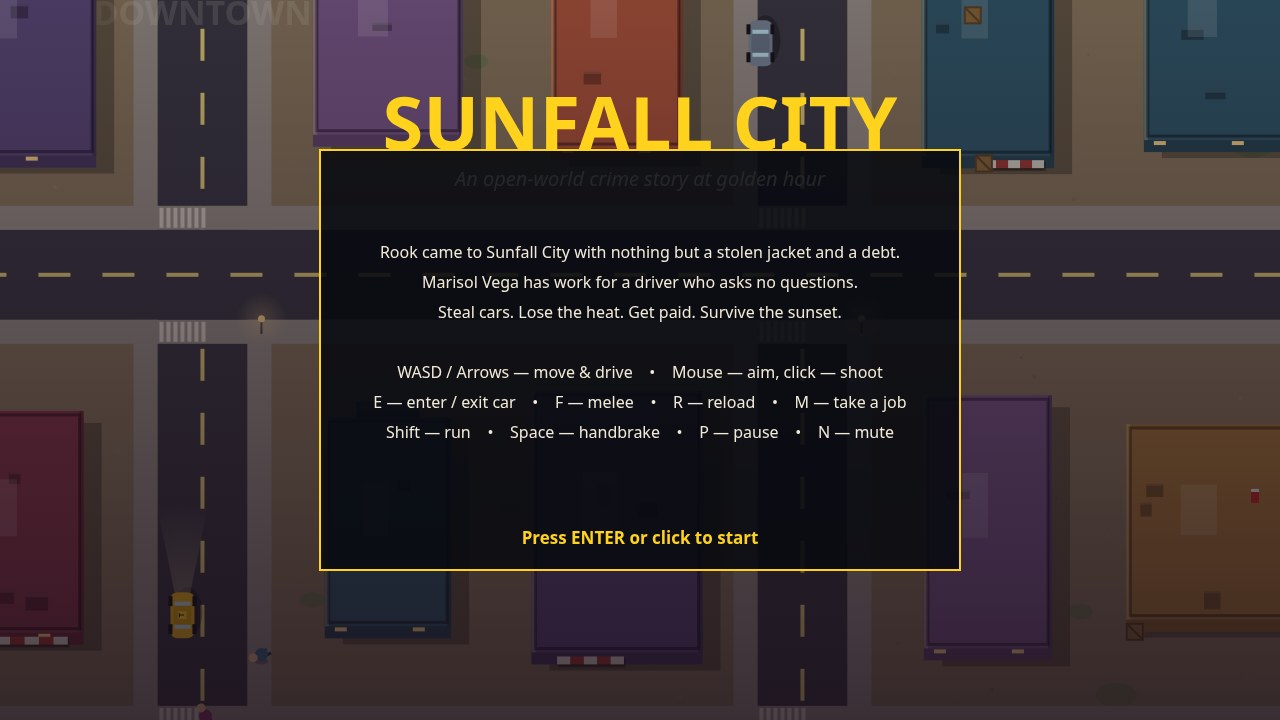
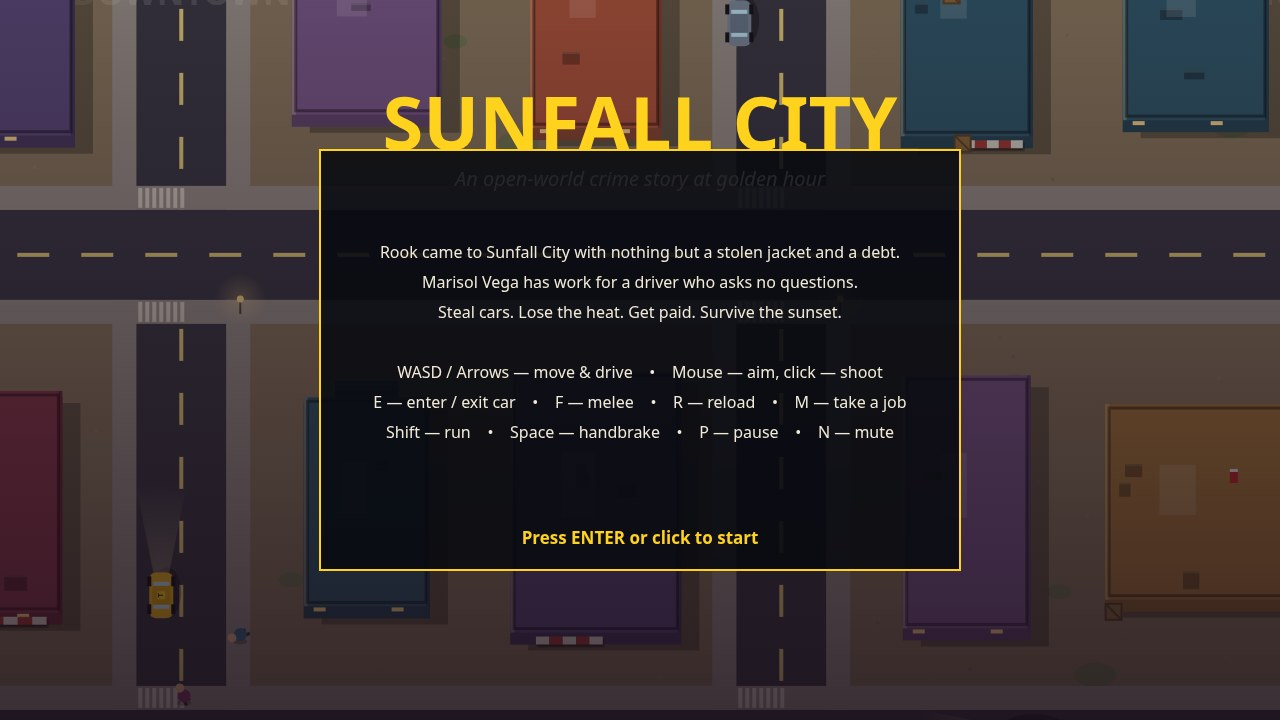
Phase 3: M4 getaway rebalanced, audio layered, full-file review pass
- M4 now spawns a red Comet GT on Harbor Road by the bank, so the final
  getaway does not hinge on a random slow parked car; police rams 8->6 dmg
  with a 2.2s cooldown and wall scrapes lightened (1.2% above 160), after
  the pre-fix M4 run died mid-getaway at 4 hp
- Safehouse moved to face Sunset Strip road (800,2030): the old spot sat in
  a 77px gap between two buildings and the getaway ended in a ram-filled
  squeeze; M4 now passes three consecutive full drive-throughs
- Audio: tyre skid on hard turns/handbrake, two-click reload, looped city
  hum bed under the engine and sirens
- Bullets now route car damage through damageCar so a killing shot explodes
  the car like any other fatal damage
- Review pass: every game file + main.ts got a genuine line (fix or a
  precise comment on its trickiest non-obvious behaviour)

diff --git a/game/src/audio.js b/game/src/audio.js
@@ -9,6 +9,8 @@ let engineGain = null;
 let sirenOsc = null;
 let sirenGain = null;
 let sirenLfo = null;
+let ambientGain = null;
+let lastSkid = -1;
 let started = false;
 
 export function initAudio() {
@@ -48,6 +50,29 @@ export function initAudio() {
     sirenGain.connect(master);
     sirenOsc.start();
     sirenLfo.start();
+    // Ambient city bed: looped brown noise through a low-pass, barely there —
+    // the street hum under the engine and sirens. Gain is driven per-frame.
+    const ambLen = ctx.sampleRate * 2;
+    const ambBuf = ctx.createBuffer(1, ambLen, ctx.sampleRate);
+    const ad = ambBuf.getChannelData(0);
+    let last = 0;
+    for (let i = 0; i < ambLen; i += 1) {
+      const w = Math.random() * 2 - 1;
+      last = (last + 0.02 * w) / 1.02;
+      ad[i] = last * 3;
+    }
+    const ambSrc = ctx.createBufferSource();
+    ambSrc.buffer = ambBuf;
+    ambSrc.loop = true;
+    const ambFilter = ctx.createBiquadFilter();
+    ambFilter.type = 'lowpass';
+    ambFilter.frequency.value = 240;
+    ambientGain = ctx.createGain();
+    ambientGain.gain.value = 0;
+    ambSrc.connect(ambFilter);
+    ambFilter.connect(ambientGain);
+    ambientGain.connect(master);
+    ambSrc.start();
     started = true;
   } catch {
     // Audio is a nice-to-have; the game plays fine silent.
@@ -96,6 +121,28 @@ function noiseBurst(dur, vol, filterFreq) {
   src.start(t);
 }
 
+// Band-passed noise burst: a tyre squeal is a narrow band of noise, not a thud.
+function noiseBand(dur, vol, freq, q) {
+  if (!ctx || !started) return;
+  const t = ctx.currentTime;
+  const len = Math.floor(ctx.sampleRate * dur);
+  const buf = ctx.createBuffer(1, len, ctx.sampleRate);
+  const data = buf.getChannelData(0);
+  for (let i = 0; i < len; i += 1) data[i] = (Math.random() * 2 - 1) * (1 - i / len);
+  const src = ctx.createBufferSource();
+  src.buffer = buf;
+  const f = ctx.createBiquadFilter();
+  f.type = 'bandpass';
+  f.frequency.value = freq;
+  f.Q.value = q;
+  const g = ctx.createGain();
+  g.gain.value = vol;
+  src.connect(f);
+  f.connect(g);
+  g.connect(master);
+  src.start(t);
+}
+
 export const sfx = {
   shoot() { noiseBurst(0.09, 0.5, 2600); blip(220, 0.07, 'square', 0.18, 60); },
   enemyShoot() { noiseBurst(0.08, 0.28, 1800); },
@@ -111,6 +158,17 @@ export const sfx = {
   },
   crash() { noiseBurst(0.22, 0.5, 500); },
   door() { blip(180, 0.08, 'square', 0.2, 120); },
+  // Skid: throttled inside, so the driving loop can call it every frame while
+  // sliding without stacking a squeal per frame.
+  skid() {
+    if (!ctx || !started) return;
+    const now = ctx.currentTime;
+    if (now - lastSkid < 0.18) return;
+    lastSkid = now;
+    noiseBand(0.16, 0.22, 1400, 1.2);
+  },
+  // Reload: two mechanical clicks — mag out, mag in.
+  reload() { blip(1500, 0.04, 'square', 0.16); setTimeout(() => blip(950, 0.05, 'square', 0.16), 90); },
 };
 
 // Called every frame: engine pitch from the player's car speed, siren from police heat.
@@ -125,6 +183,10 @@ export function updateAudioLoops() {
   const nearest = nearestPoliceDist();
   const sirenOn = S.wanted > 0 && nearest < 900;
   sirenGain.gain.setTargetAtTime(sirenOn ? 0.045 : 0, ctx.currentTime, 0.3);
+  // The city hum is only audible while playing — silent on the title screen.
+  if (ambientGain) {
+    ambientGain.gain.setTargetAtTime(S.screen === 'playing' ? 0.03 : 0, ctx.currentTime, 0.5);
+  }
 }
 
 function nearestPoliceDist() {

diff --git a/game/src/missions.js b/game/src/missions.js
@@ -3,6 +3,7 @@
 // each with stages, a timer where the story needs one, and a cash reward.
 import { S } from './state.js';
 import { dist } from './utils.js';
+import { ROADS_H } from './config.js';
 import { CITY } from './city.js';
 import { createCar, nearestCar } from './cars.js';
 import { spawnThugs } from './combat.js';
@@ -83,6 +84,13 @@ export function startMission() {
   } else if (S.missionIdx === 3) {
     m.marker = { x: CITY.landmarks.bank.x, y: CITY.landmarks.bank.y, label: 'BRIEFCASE' };
     S.objective = def.objective0;
+    // The getaway car: a red Comet GT parked on the Harbor Road just south of
+    // the bank, so the final job does not hinge on whatever random parked car
+    // happens to be nearby — a slow sedan can never outrun three cruisers.
+    // (The bank landmark is nudged out of its building by setupWorld, so the
+    // car is placed off the first horizontal road below the nudged bank.)
+    const roadY = ROADS_H.find((y) => y > CITY.landmarks.bank.y) ?? ROADS_H[1];
+    m.getawayCar = createCar('sports', CITY.landmarks.bank.x, roadY - 42, 0, { ai: null, parked: true, color: '#c22a2a' });
   }
   sfx.click();
   return true;
@@ -205,7 +213,7 @@ export function updateMissions(dt) {
         S.wanted = Math.max(S.wanted, 3);
         S.wantedHeat = 1;
         S.lastCrimeAt = S.time;
-        showDialogue('Marisol', '"Briefcase is hot. Every cruiser in Sunfall is coming. Drive!"', 4);
+        showDialogue('Marisol', '"Briefcase is hot. Every cruiser in Sunfall is coming. The red Comet on Harbor Road is yours — drive!"', 4);
         sfx.pickup();
       }
     } else if (reach(p, CITY.landmarks.safehouse.x, CITY.landmarks.safehouse.y, 60)) {

diff --git a/game/src/combat.js b/game/src/combat.js
@@ -4,6 +4,7 @@ import { S } from './state.js';
 import { WEAPONS } from './config.js';
 import { clamp, dist, angleTo, turnToward, pick } from './utils.js';
 import { collideBuildings, clampToWorld, inBuilding } from './city.js';
+import { damageCar } from './cars.js';
 import { scarePeds } from './peds.js';
 import { addWanted } from './police.js';
 import { sfx } from './audio.js';
@@ -164,7 +165,10 @@ export function updateBullets(dt) {
     }
     if (b.from !== 'player' && p && p.inCar && dist(b.x, b.y, p.inCar.x, p.inCar.y) < 24) {
       b.life = 0;
-      p.inCar.hp -= b.damage * 0.4;
+      // Route through damageCar, not a raw subtraction: a killing shot must
+      // trigger the explosion (and the 25 hp kick to the driver), exactly as
+      // a ram or a wall scrape would.
+      damageCar(p.inCar, b.damage * 0.4, null);
       spark(b.x, b.y, '#ffd21e');
       continue;
     }
@@ -209,10 +213,9 @@ export function updateBullets(dt) {
           const along = Math.abs(dx * Math.cos(car.angle) + dy * Math.sin(car.angle));
           const across = Math.abs(-dx * Math.sin(car.angle) + dy * Math.cos(car.angle));
           if (along < 26 && across < 15) {
-            car.hp -= b.damage * 0.5;
+            damageCar(car, b.damage * 0.5, null);
             b.life = 0; consumed = true;
             spark(b.x, b.y, '#ffd21e');
-            if (car.hp <= 0) { /* explodeCar handled in damageCar path */ }
             break;
           }
         }

diff --git a/game/src/city.js b/game/src/city.js
@@ -85,14 +85,17 @@ export function generateCity() {
     .sort((a, b) => b.w * b.h - a.w * a.h).slice(0, 3);
   for (const b of cands) b.landmark = true;
 
-  // Landmarks (named places used by missions and the HUD).
+  // Landmarks (named places used by missions and the HUD). They are written
+  // in world coords and MAY land inside a generated building — setupWorld()
+  // in main.js nudges each one +30px east until it is clear, so mission code
+  // must only read CITY.landmarks after setupWorld has run.
   CITY.landmarks = {
     marina: { name: 'Marina', x: 250, y: 450 },
     motel: { name: 'Sunset Motel', x: 2650, y: 2100 },
     garage: { name: "Rico's Garage", x: 1850, y: 1650 },
     pier: { name: 'Old Pier', x: 300, y: 1950 },
     bank: { name: 'Harbor Bank', x: 2650, y: 700 },
-    safehouse: { name: "Marisol's", x: 800, y: 2200 },
+    safehouse: { name: "Marisol's", x: 800, y: 2030 }, // the door faces Sunset Strip road: the old spot (800,2200) sat in a 77px gap between two buildings, so the getaway ended in a slow, ram-filled squeeze instead of a drive home
     hospital: { name: 'St. Aurelia Hospital', x: 1400, y: 700 },
     police: { name: 'Central Precinct', x: 2000, y: 1200 },
   };

diff --git a/game/src/cars.js b/game/src/cars.js
@@ -87,15 +87,21 @@ export function updatePlayerCar(car, input, dt) {
   const hitWall = collideBuildings(car, 20);
   clampToWorld(car, 24);
   if (hitWall || car.x !== nx || car.y !== ny) {
-    // Scrape: lose speed, take a little damage, spark.
-    if (Math.abs(car.speed) > 120) {
-      damageCar(car, Math.abs(car.speed) * 0.02, null);
+    // Scrape: lose speed, take a little damage, spark. Kept light (1.2% of
+    // speed, only above 160) — at the old 2% a getaway car bled out just from
+    // brushing building corners while threading the safehouse gap.
+    if (Math.abs(car.speed) > 160) {
+      damageCar(car, Math.abs(car.speed) * 0.012, null);
       S.shake = Math.max(S.shake, 3);
       sfx.crash();
     }
     car.speed *= 0.55;
     car.x = ox + (car.x - ox) * 0.2;
     car.y = oy + (car.y - oy) * 0.2;
+  }
+  // Tyres squeal on a hard turn at speed or a handbrake slide.
+  if ((handbrake && Math.abs(car.speed) > 200) || (Math.abs(steer) > 0.7 && Math.abs(car.speed) > 280)) {
+    sfx.skid();
   }
   S.stats.distance += Math.abs(car.speed) * dt;
   if (car.hp < car.maxHp * 0.4) car.smoke = 1;

diff --git a/game/src/police.js b/game/src/police.js
@@ -138,12 +138,14 @@ export function updatePoliceCar(car, dt) {
   // Ram the player: a discrete hit with a cooldown, not a continuous grind —
   // cruisers piling on at full rate destroyed a car in under two seconds,
   // which made a 3-star getaway unwinnable in anything but the fastest car.
+  // 6 damage per cruiser every 2.2 s still hurts (three cruisers in contact
+  // is ~8/s), but a fast car that keeps moving can now survive the run home.
   if (car.ramCd > 0) car.ramCd -= dt;
   if (d < 40) {
     if (p.inCar) {
       if (car.ramCd <= 0) {
-        damageCar(p.inCar, 8, car);
-        car.ramCd = 1.5;
+        damageCar(p.inCar, 6, car);
+        car.ramCd = 2.2;
         S.shake = Math.max(S.shake, 2);
         car.speed *= 0.85;
       }

diff --git a/game/src/config.js b/game/src/config.js
@@ -44,7 +44,9 @@ export const ROADS_H = [450, 950, 1450, 1950];
 export const ROAD_HALF = 45;
 export const LANE = 20; // lane offset from road centre
 
-// Vehicle types. speed in px/s, accel px/s^2.
+// Vehicle types. speed in px/s, accel px/s^2. The chase balance hangs on the
+// cruiser's 470: it sits between the sedan's 380 and the Comet GT's 520, so a
+// getaway in a fast car can outrun the law and a getaway in a slow one cannot.
 export const CAR_TYPES = {
   sedan:   { name: 'Sedan',    topSpeed: 380, accel: 260, brake: 420, grip: 2.6, hp: 100, colors: ['#7a8a9a', '#5a6b7a', '#9a7a5a', '#4a7a5a'] },
   taxi:    { name: 'Taxi',     topSpeed: 400, accel: 280, brake: 440, grip: 2.7, hp: 100, colors: ['#f0b81e'] },

diff --git a/main.ts b/main.ts
@@ -7,6 +7,9 @@
 // explore on foot and by car, with traffic, pedestrians, stealable cars, a 1–5 star wanted
 // level with pursuing police, four story missions for the fixer Marisol Vega, mouse-aim
 // combat, a HUD with a live minimap, a start screen, pause and a localStorage save.
+// Phase 3 (2026-11-20): M4 getaway rebalanced (a red Comet GT waits by the bank,
+// softer police rams, lighter wall scrapes), audio layered (skid / reload / city hum),
+// and every game file given a final review pass.
 export const GAME_TITLE = 'Sunfall City';
 export const GAME_TAGLINE = 'An open-world crime story at golden hour';
 // Serve it locally with `node serve.ts`, then open http://localhost:8080.

diff --git a/game/src/utils.js b/game/src/utils.js
@@ -36,7 +36,9 @@ export function circleVsRect(cx, cy, r, rect) {
   const d2 = dx * dx + dy * dy;
   if (d2 >= r * r) return null;
   if (d2 === 0) {
-    // Centre inside the box: push out along the smallest penetration axis.
+    // Centre inside the box: without this branch the push-out math divides
+    // by zero (dx = dy = 0), so a circle whose centre enters a building
+    // would never resolve. Push out along the smallest penetration axis.
     const left = cx - rect.x, right = rect.x + rect.w - cx;
     const top = cy - rect.y, bottom = rect.y + rect.h - cy;
     const m = Math.min(left, right, top, bottom);

diff --git a/game/src/render.js b/game/src/render.js
@@ -435,6 +435,8 @@ function panel(ctx, title, lines, prompt, accent) {
 
 export function drawTitle(ctx, hasSave) {
   // The world behind the title (a slow pan over the city) is drawn by the caller.
+  // The panel's title slot is deliberately left blank (the '' below): the
+  // story lines are the title here, and the empty slot keeps their spacing.
   const grad = ctx.createLinearGradient(0, 0, 0, VIEW_H);
   grad.addColorStop(0, 'rgba(20,8,20,0.25)');
   grad.addColorStop(1, 'rgba(20,8,20,0.72)');

diff --git a/game/src/state.js b/game/src/state.js
@@ -11,7 +11,9 @@ export const S = {
   wantedHeat: 0, // 0..1, builds with crimes, decays when clean
   lastCrimeAt: -999,
   lastSeenAt: -999, // last time police had line of sight
-  player: null,
+  player: null, // while driving, the player's x/y/angle mirror the car (main.js
+  // step() syncs them every frame), so the camera, minimap and police all
+  // read one position whether Rook is on foot or behind the wheel
   cars: [],
   peds: [],
   cops: [], // foot officers

diff --git a/game/src/input.js b/game/src/input.js
@@ -13,6 +13,10 @@ export const ACT_MUTE = 32;
 export const ACT_MELEE = 64;
 
 const KEY_ACTIONS = {
+  // Space does double duty: ACT_CONFIRM on the title screens and the
+  // handbrake while driving. The two never collide — handleActions() ignores
+  // one-shot presses while the screen is 'playing', and step() reads the
+  // held Space key directly for the handbrake.
   Space: ACT_CONFIRM, Enter: ACT_CONFIRM,
   KeyP: ACT_PAUSE, Escape: ACT_PAUSE,
   KeyE: ACT_ENTER,
